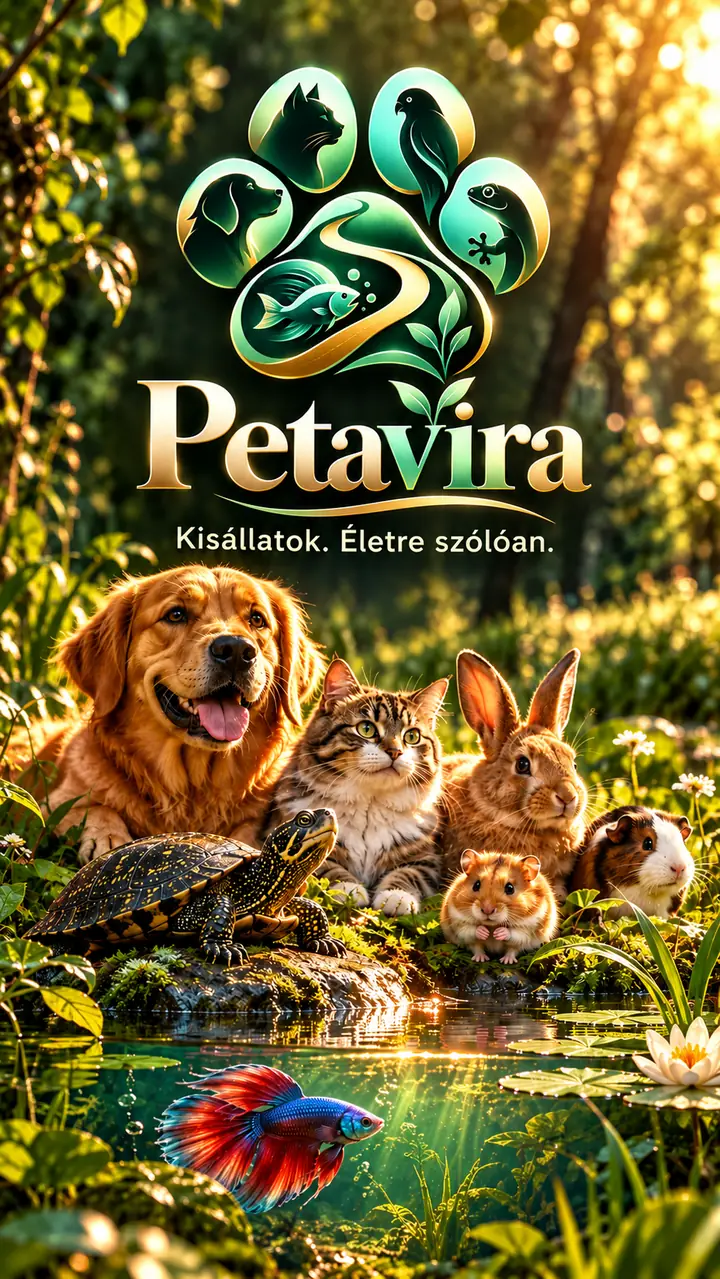
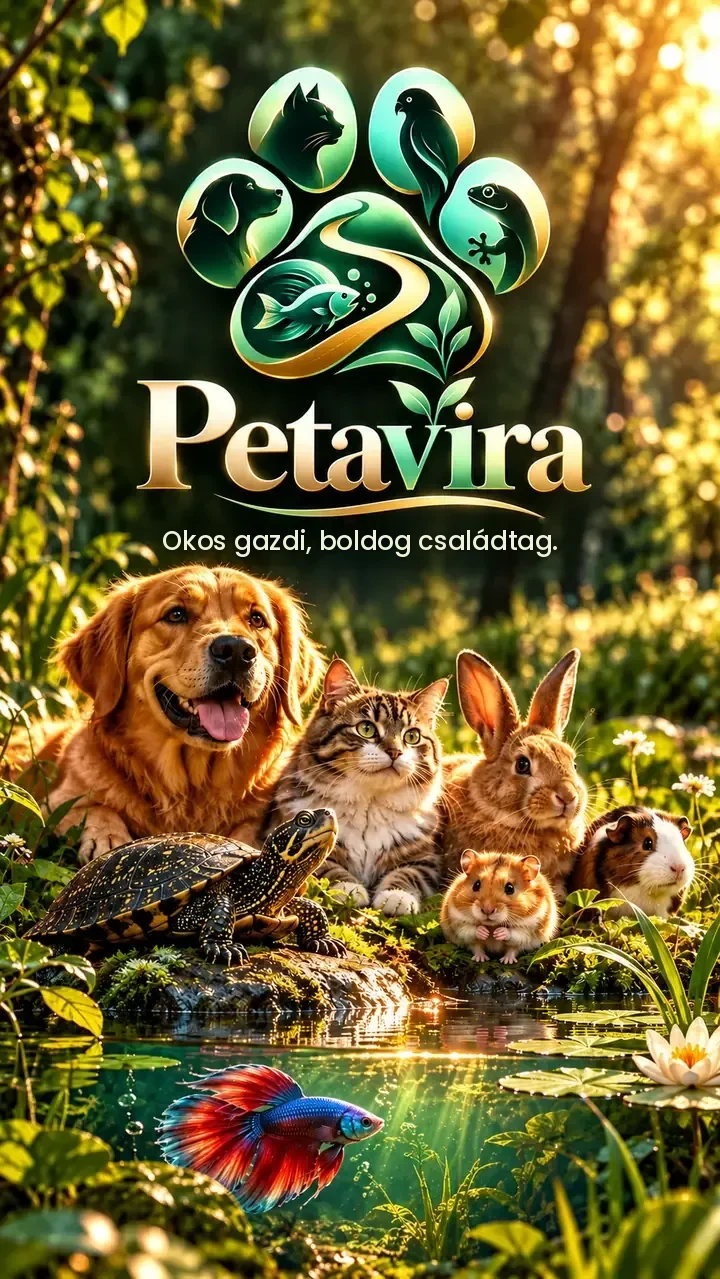
Szlogencsere: „Okos gazdi, boldog családtag.”
- img/kezdo.webp: a beégetett régi szlogen („Kisállatok. Életre szólóan.”) helyén az új
- index.html: a kezdőkép alt szövege
- sw.js: gyorsítótár-verzió petlife-v14 (a telepített appok is az új képet kapják)

Claude-Session: https://claude.ai/code/session_01375ozmeETHA2TApyghmazY

diff --git a/index.html b/index.html
@@ -2969,7 +2969,7 @@ function trail(p){
   return`<div class="trail" role="img" aria-label="Életszakasz: ${stHU(p,st)}"><div class="trail-bar">${STAGES.map((s,k)=>`<span class="seg ${k<i?'past':k===i?'cur':''}"${k===i?` style="--f:${Math.round(f*100)}%"`:''}></span>`).join('')}<span style="position:absolute;left:${((i+f)/4*100).toFixed(1)}%;top:50%">${BALL}</span></div>
   <div class="trail-lab">${STAGES.map((s,k)=>`<span class="${k===i?'on':''}">${stHU(p,s)}</span>`).join('')}</div></div>
   <p class="next">${next} A szakaszhatárok tájékoztató jellegűek.</p>`}
-function vEmpty(){return`<div class="empty start"><img class="startpic" src="img/kezdo.webp" alt="Petavira – Kisállatok. Életre szólóan." width="720" height="1279"><h1 class="sr-only">Kövesd végig a kedvenced életét</h1>
+function vEmpty(){return`<div class="empty start"><img class="startpic" src="img/kezdo.webp" alt="Petavira – Okos gazdi, boldog családtag." width="720" height="1279"><h1 class="sr-only">Kövesd végig a kedvenced életét</h1>
   <p class="sub">Add meg a faját, fajtáját és korát, és a Petavira mindig az aktuális életszakaszához illő teendőket és tippeket mutatja.</p>
   <p><button class="btn" data-act="petNew">Állat felvétele</button></p><p><button class="btn ghost" data-act="tab" data-tab="nopet">Még nincs állatom</button></p>${cloud.state==='sync'?'<p class="hint">Korábban mentett adatok keresése…</p>':''}</div>`}
 function vHome(p){

diff --git a/sw.js b/sw.js
@@ -1,7 +1,7 @@
 /* Petavira service worker – offline indulás.
    Az oldal (index.html) hálózat-első: online mindig a friss változat jön, offline a mentett.
    Ha az ikonok vagy a manifest változik, növeld a V számát. */
-const V = 'petlife-v13';
+const V = 'petlife-v14';
 const LIB = 'petlife-lib-2';
 /* az értesítések terve (az app írja, itt csak olvassuk); frissítéskor sem töröljük */
 const PUSH = 'petvia-push';
